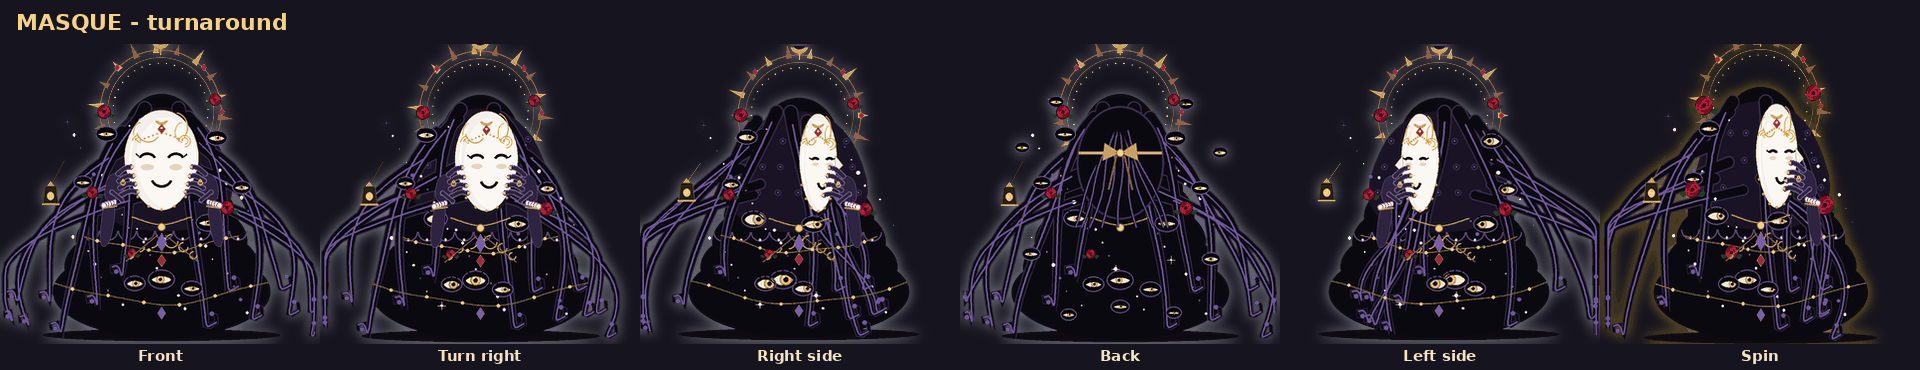
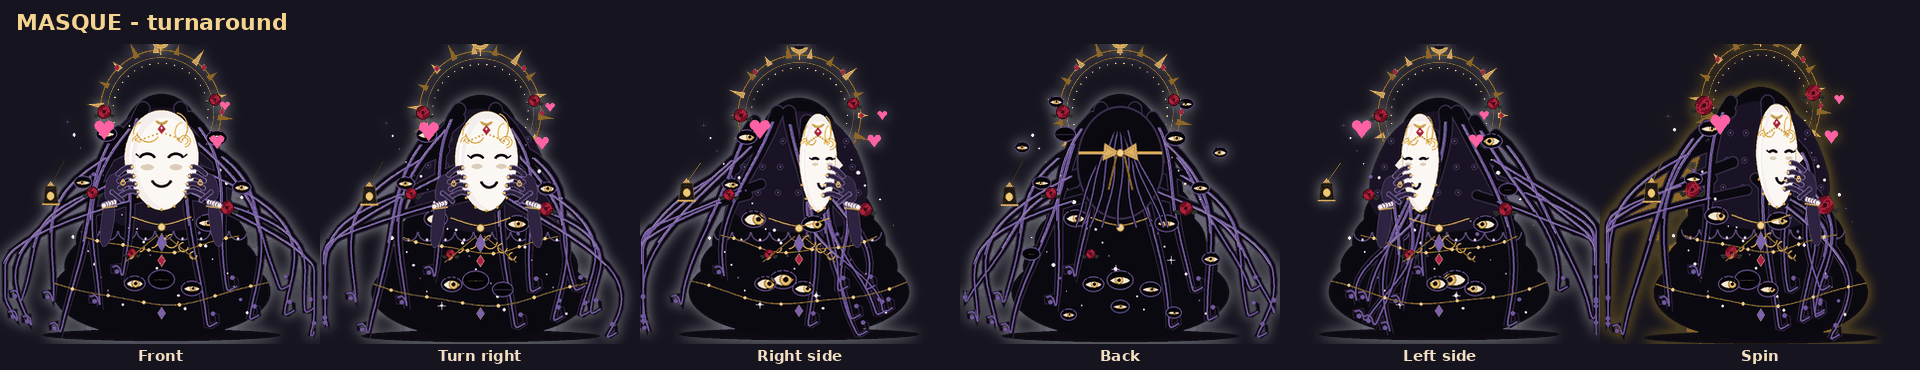
Masque, more dynamic: floating feelings for every face, tool charm, ghost helpers, crack portal, landing splash, demo GIF
- Each mask face carries its own animated emote: hearts, tears, question
  marks, crosshair, red sparks, rising smoke, slow dots.
- The tool at work glows as a hexagonal charm on her chest and a ring of light
  on the floor; mixed work braids as before.
- Helpers are small masked ghosts with wavy hems and tiny halos.
- Crack portal is now a jagged violet tear with shards; new 'land' move
  splashes ink across the floor.
- Livelier: wider mane sway, glossy strand highlights, every eye blinks on
  its own beat.
- make_demo_gif.py renders any companion (masque: docs/masque-demo.gif) on its
  own clock, so live state in the GIF matches what users see.

Claude-Session: https://claude.ai/code/session_01PQo4QqTtKQd9uCasapaCKQ

diff --git a/hermes_companion/animation/masque.py b/hermes_companion/animation/masque.py
@@ -256,6 +256,7 @@ MASQUE_MOVES.update({
     "wake_up": ("calm", frozenset({"wake"})),
     "angry": ("uneasy", frozenset({"angry", "recoil", "mask:scary"})),
     "window_perch": ("calm", frozenset({"perch"})),
+    "land": ("calm", frozenset({"land", "crouch", "mask:cute"})),
     "enter_crack": ("focused", frozenset({"portal_in"})),
     "exit_crack": ("bright", frozenset({"portal_out", "mask:cute"})),
 })
@@ -636,7 +637,7 @@ def _mane_strand(mcx, mcy, side, t, k, p, i, form, fx, facing=0.0):
         out, drop = side * (90 + 60 * t) * k, (FLOOR - ry)
     if "recoil" in fx or "coil" in fx:
         drop *= 0.55
-    wave = (6 + 10 * t) * (1 if i % 3 else -1)
+    wave = (8 + 14 * t) * (1 if i % 3 else -1)
     phase = p * 2 * math.pi + i * 0.9
     pts = []
     n = 12
@@ -796,6 +797,11 @@ def draw_masque(canvas, pose: str, progress: float = 0.0, palette: str | None = 
     if "perch" not in fx:                                  # a soft shadow pooling on the floor
         sw = 120 * size * spread
         canvas.create_oval(mcx - sw, FLOOR - 7, mcx + sw, FLOOR + 5, fill="#0d0a12", outline="")
+        if st.category != "general" or st.running:         # the work glows on the floor around her
+            for k_ in range(3):
+                g = sw * (0.8 + 0.12 * k_) + 6 * osc
+                canvas.create_oval(mcx - g, FLOOR - 9 - k_ * 2, mcx + g, FLOOR + 7 + k_ * 2,
+                                   outline=_mix(colour, "#120f17", 0.3 + 0.25 * k_), width=1.5)
     for k in range(7):                                     # soft volume behind the strands
         t = k / 6
         rx = (40 + 70 * t) * size * spread
@@ -833,6 +839,9 @@ def draw_masque(canvas, pose: str, progress: float = 0.0, palette: str | None = 
         canvas.create_line(*flat, fill=tn, width=1.6, smooth=True)
         tx, ty = pts[-1]
         canvas.create_oval(tx - 2.2, ty - 2.2, tx + 2.2, ty + 2.2, fill=tn, outline="")
+        gloss = [c for q in pts[1:max(3, len(pts) // 2)] for c in (q[0] - 1.6, q[1])]
+        if len(gloss) >= 4:                                   # a wet, glossy highlight
+            canvas.create_line(*gloss, fill="#9d86c9", width=0.9, smooth=True)
 
     # 3. eyes in the dark
     eye_count = int(9 * eyes_k + (9 if st.thinking or "alleyes" in fx or back else 0))
@@ -843,7 +852,9 @@ def draw_masque(canvas, pose: str, progress: float = 0.0, palette: str | None = 
         ex, ey = mcx + dx * size * 0.9 * (1 - 0.35 * turn) - facing * 16, dy + hover * 0.5
         if not back and abs(ex - mcx - facing * mw * 0.5) < mw + 10 and abs(ey - mcy) < mh + 10:
             continue                                         # never behind the mask edge
-        opn = (1.0 if st.thinking or "alleyes" in fx else 0.45 + 0.55 * blink) if face != "blank" else 0.0
+        own_blink = math.sin(p * 2 * math.pi + i * 1.7) > 0.92  # each eye blinks on its own beat
+        opn = (1.0 if st.thinking or "alleyes" in fx else (0.1 if own_blink else 0.55 + 0.45 * blink)) \
+            if face != "blank" else 0.0
         opn *= 0.65 + 0.35 * ((i * 7) % 5) / 4
         look = (osc, 0.0) if ("scan" in fx or "follow" in fx) else \
             (-1.0, -0.6) if "lookup" in fx else (0.4 * math.sin(i) + facing, 0.0)
@@ -953,6 +964,13 @@ def draw_masque(canvas, pose: str, progress: float = 0.0, palette: str | None = 
         _strand(canvas, [(mcx + 30, mcy + 40), (mcx + mw + 20, mcy + 20), (ox - 10, oy + 26)], 7, 3,
                 INK, sheen=colour)
         draw_mask(canvas, ox, oy, mw * 0.55, mh * 0.55, "blank", lace=False, p=p)
+    if not back:
+        _emote(canvas, face, mcx + facing * mw * 0.5, mcy, mw, mh, p)
+    cat_now = st.tools[-1] if st.tools else st.category
+    if not back and (st.running or st.category in ("failure", "approval")) and "rest" not in fx:
+        _charm(canvas, cat_now, mcx, mcy + mh + 58, p, CATEGORY_COLOUR.get(cat_now, colour))
+    if "land" in fx:
+        _splash(canvas, mcx, FLOOR, p, tint)
     if "rest" in fx and not back:                            # the small smile keeps a rose
         _rose(canvas, mcx, mcy + mh + 12, 9)
 
@@ -1124,16 +1142,135 @@ def _true_face(canvas, x, y, w, h):
 
 
 def _portal(canvas, x, y, p, colour):
-    """The crack she slips through between two places."""
+    """The crack she slips through: a jagged violet tear with light spilling out."""
     spread = math.sin(min(max(p, 0.0), 1.0) * math.pi)
-    for i in range(10):
-        a = i * 0.628 + p * 3
-        r = 20 + 50 * spread
-        canvas.create_line(x, y, x + math.cos(a) * r, y + math.sin(a) * r * 1.3, fill=INK, width=4,
-                           capstyle="round")
-    canvas.create_polygon(x - 4, y - 60 * spread, x + 6, y - 20, x - 3, y + 10, x + 5, y + 60 * spread,
-                          x - 6, y + 20, x + 3, y - 10, fill=colour, outline="")
-    _eye(canvas, x, y, 9 * spread + 2, 1.0)
+    h = 30 + 110 * spread
+    pts_l, pts_r = [], []
+    for j in range(9):
+        t = j / 8
+        yy = y - h + 2 * h * t
+        jag = (6 + 10 * spread) * (1 if j % 2 else -0.6) * math.sin(t * math.pi)
+        pts_l.append((x - 4 - jag - 8 * spread * math.sin(t * math.pi), yy))
+        pts_r.append((x + 4 + jag * 0.7 + 8 * spread * math.sin(t * math.pi), yy))
+    for k, col in ((1.8, "#3b1d6e"), (1.0, colour), (0.45, "#f2e8ff")):
+        poly = [(x + (px - x) * k, py) for px, py in pts_l] + \
+               [(x + (px - x) * k, py) for px, py in pts_r[::-1]]
+        canvas.create_polygon(*[c for q in poly for c in q], fill=col, outline="")
+    for i in range(10):                                       # shards flung out of the crack
+        a = i * 0.628 + p * 4
+        r = 30 + 60 * spread
+        sx, sy = x + math.cos(a) * r, y + math.sin(a) * r * 1.2
+        canvas.create_polygon(sx, sy - 4, sx + 3, sy, sx, sy + 4, sx - 3, sy, fill=colour, outline="")
+    _eye(canvas, x, y, 6 + 6 * spread, 1.0)
+
+
+def _ghost(canvas, x, y, p, colour):
+    """A small masked helper: a soft ghost with a wavy hem and a tiny halo."""
+    pts = [(x - 15, y + 4), (x - 15, y - 6)]
+    for j in range(9):                                         # rounded head
+        a = math.pi + j * math.pi / 8
+        pts.append((x + math.cos(a) * 15, y - 6 + math.sin(a) * 15))
+    pts.append((x + 15, y + 4))
+    for j in range(7):                                         # wavy hem
+        t = j / 6
+        pts.append((x + 15 - 30 * t, y + 16 + 4 * math.sin(t * 9 + p * 12)))
+    canvas.create_polygon(*[c for q in pts for c in q], fill=_mix(colour, "#ffffff", 0.35),
+                          outline=colour, smooth=True)
+    canvas.create_oval(x - 8, y - 12, x + 8, y + 5, fill=PORCELAIN, outline=GOLD_DK)
+    for k in (-1, 1):
+        canvas.create_arc(x + k * 3.5 - 2.5, y - 7, x + k * 3.5 + 2.5, y - 3, start=20, extent=140,
+                          style="arc", outline=INK, width=1)
+    canvas.create_arc(x - 3, y - 3, x + 3, y + 2, start=200, extent=140, style="arc", outline=INK, width=1)
+    canvas.create_oval(x - 4, y - 27, x + 4, y - 23, outline=GOLD_HI, width=1)
+
+
+EMOTES = {"cute": "hearts", "sad": "tears", "confused": "questions", "focused": "crosshair",
+          "scary": "sparks", "evil": "smoke", "blank": "dots"}
+
+
+def _emote(canvas, face, x, y, w, h, p):
+    """Floating feelings around the mask, one kind per face (from the sheet)."""
+    kind = EMOTES.get(face)
+    t = p * 2 * math.pi
+    if kind == "hearts":
+        for i, (dx, dy, r) in enumerate(((-w - 20, -h * 0.55, 10), (w + 18, -h * 0.25, 7),
+                                         (w + 26, -h * 0.9, 5))):
+            hx, hy = x + dx, y + dy - 10 * ((p + i * 0.33) % 1.0)
+            canvas.create_oval(hx - r, hy - r, hx, hy, fill="#ff5fa2", outline="")
+            canvas.create_oval(hx, hy - r, hx + r, hy, fill="#ff5fa2", outline="")
+            canvas.create_polygon(hx - r, hy - r * 0.45, hx + r, hy - r * 0.45, hx, hy + r * 0.9,
+                                  fill="#ff5fa2", outline="")
+    elif kind == "tears":
+        for i, dx in enumerate((-w - 10, w + 8)):
+            dy = 14 * ((p + i * 0.4) % 1.0)
+            tx, ty = x + dx, y - h * 0.2 + dy
+            canvas.create_polygon(tx, ty - 10, tx + 6, ty + 2, tx, ty + 7, tx - 6, ty + 2,
+                                  fill="#6aa8ff", outline="#bcd8ff", smooth=True)
+    elif kind == "questions":
+        for i, (dx, dy, sz) in enumerate(((-w - 16, -h * 0.7, 18), (w + 14, -h * 0.85, 13),
+                                          (-w - 4, -h * 1.05, 10))):
+            canvas.create_text(x + dx, y + dy - 3 * math.sin(t + i), text="?", fill="#c9a4ff",
+                               font=("Segoe UI", sz, "bold"))
+    elif kind == "crosshair":
+        cx_, cy_ = x - w - 18, y - h * 0.3
+        r = 11 + 2 * math.sin(t * 2)
+        canvas.create_oval(cx_ - r, cy_ - r, cx_ + r, cy_ + r, outline="#ff4d5e", width=1.4)
+        for a in range(4):
+            ang = a * math.pi / 2
+            canvas.create_line(cx_ + math.cos(ang) * (r - 3), cy_ + math.sin(ang) * (r - 3),
+                               cx_ + math.cos(ang) * (r + 4), cy_ + math.sin(ang) * (r + 4),
+                               fill="#ff4d5e", width=1.4)
+    elif kind == "sparks":
+        for i in range(5):
+            a = t + i * 1.256
+            sx, sy = x + math.cos(a) * (w + 20), y - h * 0.4 + math.sin(a) * 20
+            canvas.create_polygon(sx, sy - 8, sx + 2.4, sy, sx, sy + 8, sx - 2.4, sy, fill="#ff3b3b",
+                                  outline="")
+            canvas.create_polygon(sx - 8, sy, sx, sy + 2.4, sx + 8, sy, sx, sy - 2.4, fill="#ff3b3b",
+                                  outline="")
+    elif kind == "smoke":
+        for k in (-1, 1):
+            pts = []
+            for j in range(10):
+                u = j / 9
+                pts += [x + k * (w + 6 + 18 * u + 6 * math.sin(u * 9 + t)), y + h * 0.4 - 70 * u]
+            canvas.create_line(*pts, fill="#ff2a6d", width=2.2, smooth=True)
+            canvas.create_line(*[v + (1.5 if n % 2 == 0 else 0) for n, v in enumerate(pts)],
+                               fill="#ff8ab0", width=0.8, smooth=True)
+    elif kind == "dots":
+        for i in range(3):
+            on = (int(p * 6) % 4) > i
+            dx = x + w + 12 + i * 10
+            canvas.create_oval(dx - 3.2, y - h - 3.2, dx + 3.2, y - h + 3.2, fill="#cbbfe0" if on else "#4a3b62",
+                               outline="")
+
+
+def _charm(canvas, cat, x, y, p, colour):
+    """The tool charm glowing in front of her: a hexagon holding the work's glyph."""
+    pulse = 1.0 + 0.06 * math.sin(p * 2 * math.pi * 2)
+    r = 15 * pulse
+    for k, col in ((1.55, _mix(colour, "#120f17", 0.65)), (1.25, _mix(colour, "#120f17", 0.35))):
+        canvas.create_oval(x - r * k, y - r * k, x + r * k, y + r * k, outline=col, width=2)
+    hexa = [c for i in range(6) for c in (x + math.cos(i * math.pi / 3 + math.pi / 6) * r,
+                                          y + math.sin(i * math.pi / 3 + math.pi / 6) * r)]
+    canvas.create_polygon(*hexa, fill="#0d0a14", outline=colour)
+    kind = "warning" if cat == "failure" else "spark" if cat == "approval" else \
+        CATEGORY_GLYPH.get(cat, "spark")
+    glyph(canvas, kind, x, y, 9, colour)
+
+
+def _splash(canvas, x, y, p, tint):
+    """Landing: a ring of ink splashes out across the floor."""
+    s_ = math.sin(min(p, 1.0) * math.pi)
+    for k in range(3):
+        rx = 40 + 70 * s_ + k * 16
+        canvas.create_arc(x - rx, y - 10 - k * 3, x + rx, y + 10 + k * 3, start=0, extent=180, style="arc",
+                          outline=tint, width=2.5 - k * 0.6)
+    for i in range(8):
+        a = math.pi + i * math.pi / 7
+        d = 50 + 80 * s_
+        dx_, dy_ = x + math.cos(a) * d, y + math.sin(a) * d * 0.35
+        canvas.create_oval(dx_ - 3, dy_ - 3, dx_ + 3, dy_ + 3, fill=INK, outline=tint)
 
 
 def _form(canvas, form, fx, x, y, w, h, p, osc, colour, st):
@@ -1178,16 +1315,9 @@ def _form(canvas, form, fx, x, y, w, h, p, osc, colour, st):
     elif form == "split":                                      # small masked copies, one per helper
         n = max(1, st.helpers)
         for i in range(n):
-            bx = x + (-1) ** i * (70 + 26 * (i // 2))
-            by = 248 - 6 * abs(math.sin(p * 2 * math.pi + i))
-            canvas.create_oval(bx - 16, by - 16, bx + 16, by + 18, fill=INK, outline=colour, width=2)
-            for k in (-1, 1):
-                canvas.create_line(bx + k * 10, by + 14, bx + k * 18, by + 26 + 3 * osc, fill=INK, width=3)
-            canvas.create_oval(bx - 9, by - 11, bx + 9, by + 9, fill=PORCELAIN, outline=GOLD_DK)
-            canvas.create_arc(bx - 5, by - 6, bx - 1, by - 1, start=20, extent=140, style="arc", outline=INK, width=1)
-            canvas.create_arc(bx + 1, by - 6, bx + 5, by - 1, start=20, extent=140, style="arc", outline=INK, width=1)
-            canvas.create_arc(bx - 4, by - 2, bx + 4, by + 5, start=200, extent=140, style="arc", outline=INK, width=1)
-            canvas.create_oval(bx - 3, by - 22, bx + 3, by - 16, outline=GOLD, width=1)   # tiny halo
+            bx = x + (-1) ** i * (74 + 30 * (i // 2))
+            by = 236 - 8 * abs(math.sin(p * 2 * math.pi + i))
+            _ghost(canvas, bx, by, p + i * 0.3, colour)
 
 
 def _effects(canvas, fx, form, x, y, w, h, p, osc, colour, st, pose):

diff --git a/hermes_companion/scripts/make_demo_gif.py b/hermes_companion/scripts/make_demo_gif.py
@@ -17,6 +17,7 @@ from hermes_companion.renderer.smooth import FrameRenderer, _font, mood_label
 
 SESSION = [
     ("agent.started", "", "Hermes starts a task"),
+    ("user.prompt_submitted", "", "Hermes is thinking"),
     ("tool.started", "terminal", "Runs a terminal command"),
     ("tool.finished", "terminal", "Command finished"),
     ("tool.started", "web_search", "Searches the web"),
@@ -24,15 +25,27 @@ SESSION = [
     ("approval.required", "", "Needs your OK"),
     ("approval.approved", "", "You approved"),
     ("tool.started", "github", "Works on code"),
+    ("agent.subagent_spawned", "", "Sends out a helper"),
+    ("agent.subagent_finished", "", "The helper is back"),
     ("task.complete", "", "Task complete"),
 ]
-W, H = 360, 300
 
 
-def build(out: Path, companion: str = "nyamekra", palette: str = "cosmic") -> Path:
+def build(out: Path, companion: str = "nyamekra", palette: str | None = "cosmic") -> Path:
+    from hermes_companion.animation.characters import traits
     clock = [0.0]
-    engine = BehaviorEngine(seed=11, variety=True, clock=lambda: clock[0])
+    t = traits(companion)
+    engine = BehaviorEngine(seed=11, variety=True, clock=lambda: clock[0], travel=t["travel"])
     r = FrameRenderer(companion, palette)
+    observe = t.get("observe")
+    live_state = None
+    if observe is not None:                    # run the companion's live state on the GIF's clock
+        from hermes_companion.animation import masque
+        if t["observe"] is masque.observe:
+            live_state = masque.STATE
+            saved = dict(live_state.__dict__)
+            live_state.__dict__.update(masque.MasqueState(clock=lambda: clock[0]).__dict__)
+    W, H = max(360, r.fw + 40), r.fh + 80
     frames: list[Image.Image] = []
     bg = Image.new("RGBA", (W, H), "#0b0912")
     d0 = ImageDraw.Draw(bg)
@@ -41,19 +54,27 @@ def build(out: Path, companion: str = "nyamekra", palette: str = "cosmic") -> Pa
     caption_font, small = _font(15, True), _font(11, False)
     for kind, tool, caption in SESSION:
         clock[0] += 10.0          # events spaced out, as in a real session
-        chain = engine.handle(SemanticEvent(EventKind(kind), tool=tool, category=classify_tool(tool)))
+        ev = SemanticEvent(EventKind(kind), tool=tool, category=classify_tool(tool))
+        if observe:
+            observe(ev)                # live state (Masque: colour, tendrils, cracks, eyes)
+        chain = engine.handle(ev)
         # Signature moves only: the demo shows what each Hermes action looks like.
         poses = [st["pose"] for st in chain.steps if st.get("role") != "flourish"][:6] \
             if chain else ["idle_bob"]
         for pose in poses:
             for step in range(3):
                 f = bg.copy()
-                f.alpha_composite(r.frame(pose, step / 4), ((W - 200) // 2, 18))
+                f.alpha_composite(r.frame(pose, step / 4), ((W - r.fw) // 2, 18))
                 d = ImageDraw.Draw(f)
                 d.text((W / 2, H - 34), caption, fill="#ffe39a", font=caption_font, anchor="mm")
                 d.text((W / 2, H - 14), f"{mood_label(pose)} · {pose.replace('_', ' ')}",
                        fill="#c4b5fd", font=small, anchor="mm")
-                frames.append(f.convert("P", palette=Image.ADAPTIVE, colors=128))
+                if r.fw > 200:                 # big companions: keep the GIF a sensible size
+                    f = f.resize((int(W * 0.8), int(H * 0.8)), Image.LANCZOS)
+                frames.append(f.convert("P", palette=Image.ADAPTIVE, colors=96))
+                clock[0] += 0.14               # one GIF frame of time
+    if live_state is not None:
+        live_state.__dict__.update(saved)
     out.parent.mkdir(parents=True, exist_ok=True)
     frames[0].save(out, save_all=True, append_images=frames[1:], duration=140, loop=0,
                    optimize=True, disposal=2)
@@ -61,5 +82,11 @@ def build(out: Path, companion: str = "nyamekra", palette: str = "cosmic") -> Pa
 
 
 if __name__ == "__main__":
+    import sys
+    if len(sys.argv) > 1:                       # e.g. masque docs/masque-demo.gif
+        p = build(Path(sys.argv[2] if len(sys.argv) > 2 else f"docs/{sys.argv[1]}-demo.gif"),
+                  sys.argv[1], None)
+        print(p, p.stat().st_size // 1024, "KB")
+        sys.exit(0)
     p = build(Path("docs/demo.gif"))
     print(p, p.stat().st_size // 1024, "KB")

diff --git a/hermes_companion/tests/test_masque.py b/hermes_companion/tests/test_masque.py
@@ -208,3 +208,34 @@ def test_session_end_and_swap_change_the_picture():
         assert r.frame("idle_bob", 0.3).tobytes() != plain
     finally:
         M.STATE.__dict__.update(saved)
+
+
+def test_every_face_has_its_own_floating_feeling():
+    from hermes_companion.renderer.smooth import PILCanvas
+    assert set(M.EMOTES) == set(M.EXPRESSIONS)
+    seen = set()
+    for face in M.EXPRESSIONS:
+        c = PILCanvas(*M.FRAME)
+        M._emote(c, face, 160, 118, 38, 50, 0.3)
+        assert c.img.getbbox() is not None, face
+        seen.add(c.img.tobytes())
+    assert len(seen) == len(M.EXPRESSIONS)                  # each one looks different
+
+
+def test_tool_charm_ghost_helpers_crack_and_landing_draw():
+    from hermes_companion.renderer.smooth import PILCanvas
+    for fn, args in ((M._charm, ("web", 160, 200, 0.3, "#3aa0ff")),
+                     (M._ghost, (160, 200, 0.3, "#ff4fd8")),
+                     (M._portal, (160, 170, 0.5, "#9b7bd6")),
+                     (M._splash, (160, 292, 0.4, "#6d5a8c"))):
+        c = PILCanvas(*M.FRAME)
+        fn(c, *args)
+        assert c.img.getbbox() is not None, fn.__name__
+
+
+def test_demo_gif_runs_on_its_own_clock(tmp_path):
+    from hermes_companion.scripts.make_demo_gif import build
+    before = dict(M.STATE.__dict__)
+    out = build(tmp_path / "m.gif", "masque", None)
+    assert out.stat().st_size > 10_000
+    assert M.STATE.__dict__ == before                       # the live state is left untouched

diff --git a/README.md b/README.md
@@ -147,6 +147,8 @@ hermes-companion play --companion masque --palette cute     # softer, fewer eyes
 hermes-companion play --companion masque --palette monster  # every eye open, full grin
 ```
 
+![Masque acting out a real Hermes session](docs/masque-demo.gif)
+
 ![Masque: every look is a real Hermes signal](docs/masque.png)
 
 A vast, many-eyed form of hair-like tendrils under a thorn halo, holding a
@@ -170,6 +172,12 @@ signals, not only her moves:
 She travels by ink-slide, slips through a crack in the world to arrive
 somewhere else, lunges toward you when Hermes needs you, and hovers onto
 your windows. CI drives a real Hermes session through her too.
+
+Every face carries its feeling around the mask: hearts (cute), tears (sad),
+question marks (confused), a crosshair (focused), red sparks (scary), rising
+smoke (evil) and slow dots (blank). The tool at work glows as a charm on her
+chest and as a ring of light on the floor; helpers drift beside her as small
+masked ghosts; her eyes blink on their own beats.
 
 She turns: front, three-quarter, side profile and back (the mask's gold
 ribbon tied over a crown of tendrils), and a full spin passes through all of
